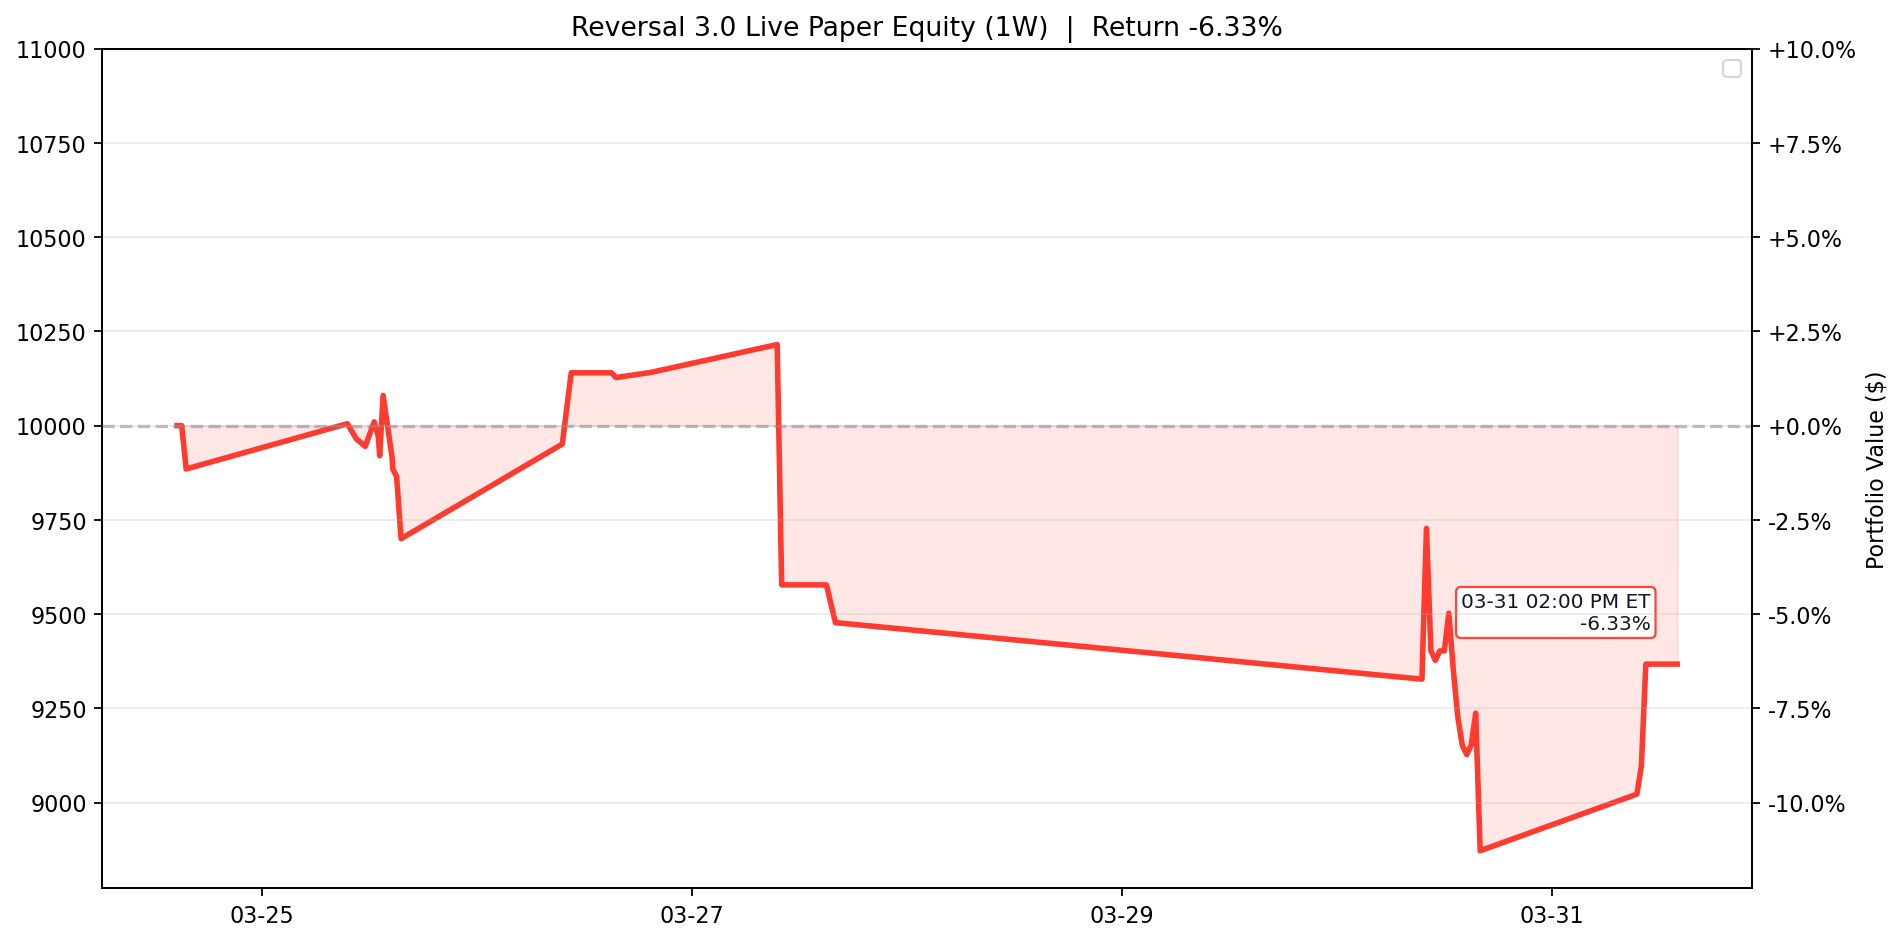
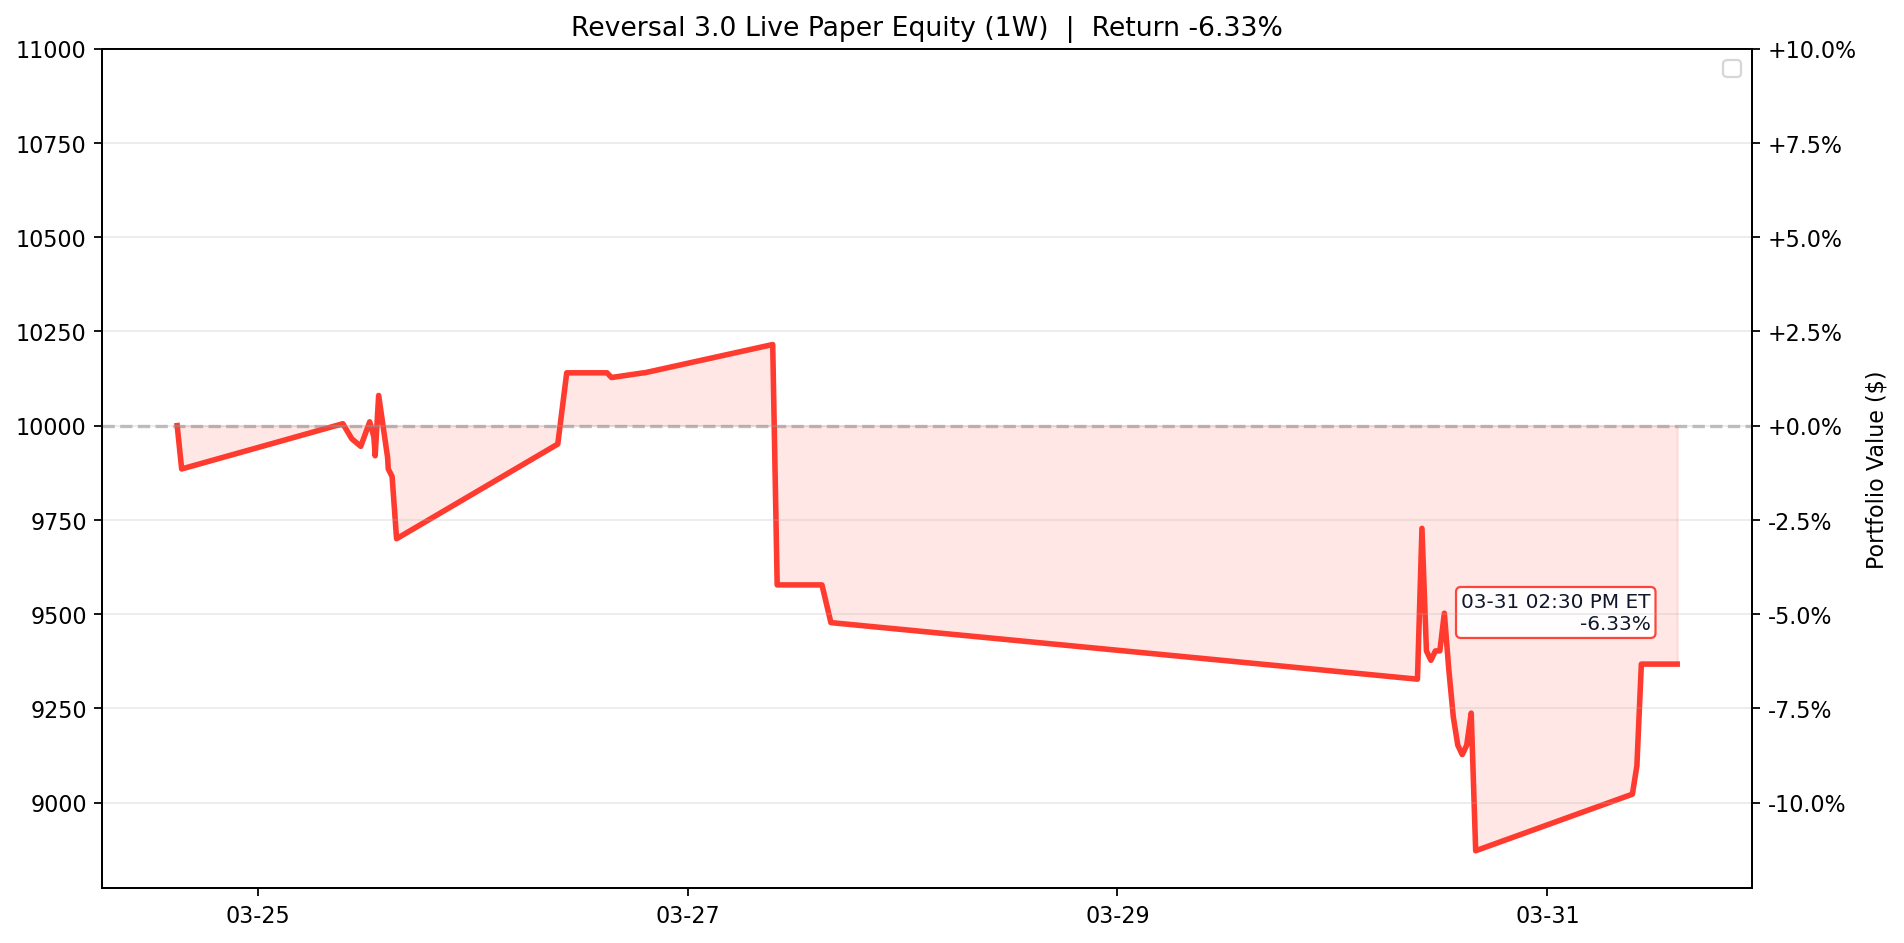
Update Reversal 3.0 live paper test 2026-03-31 14:30 ET

diff --git a/results/reversal_3_0_live/README.md b/results/reversal_3_0_live/README.md
@@ -1,7 +1,7 @@
 # Reversal 3.0 Live Paper Test
 
-Last updated (ET): `2026-03-31 14:00:05 EDT`
-Last processed slot: `manage_1400`
+Last updated (ET): `2026-03-31 14:30:05 EDT`
+Last processed slot: `manage_1430`
 
 ## Active Configuration
 
@@ -40,18 +40,18 @@ ticker     contract_symbol entry_trade_date_et exit_trade_date_et  entry_option_
 
 ```text
 ticker  success_rate_%  matched_signals  current_drop_%  target_rebound_$  target_price  rolling_sigma_20d_%  call_candidate
-  FANG          100.00               22            1.32              1.83        197.86                24.45            True
-   AEP           90.91               22            0.57              0.53        130.89                18.09            True
- CMCSA           87.50               32            0.54              0.11         28.85                29.21            True
-   LIN           87.50               16            0.87              3.04        497.96                19.51            True
-  MDLZ           86.96               23            1.06              0.43         57.57                24.85            True
-  CHTR           85.71               35            0.97              1.50        220.30                36.22            True
-   EXC           83.33               12            1.15              0.40         48.94                21.45            True
-   PEP           83.33               12            1.00              1.10        156.35                18.39            True
-   KDP           81.82               11            1.25              0.23         26.35                21.21            True
-   XEL           92.00               25            0.40              0.22         79.07                18.55           False
-  COST           91.49               47            0.21              1.44        995.96                15.57           False
-  CTAS           89.47               38            0.32              0.38        168.50                28.24           False
+  FANG          100.00               22            1.12              1.56        197.98                24.45            True
+   XEL           95.24               21            0.57              0.32         79.03                18.55            True
+   AEP           93.33               15            0.78              0.72        130.81                18.09            True
+  MDLZ           88.46               26            0.99              0.40         57.58                24.85            True
+  COST           88.24               34            0.53              3.72        994.98                15.57            True
+ CMCSA           87.10               31            0.64              0.13         28.84                29.21            True
+   LIN           84.62               13            1.05              3.67        497.69                19.51            True
+  CHTR           84.38               32            1.23              1.90        220.13                36.22            True
+   PEP           83.33               12            1.09              1.20        156.31                18.39            True
+   KDP           80.00               10            1.32              0.24         26.35                21.21            True
+  CTAS           90.48               42            0.12              0.14        168.60                28.24           False
+  CSCO           88.89               45            0.04              0.02         77.03                29.47           False
 ```
 
 ## Recent Events

diff --git a/README.md b/README.md
@@ -3,10 +3,10 @@
 <!-- reversal-3.0-live:start -->
 ## Reversal 3.0 Live Paper Test
 
-- Last updated (ET): `2026-03-31 14:00:05 EDT`
+- Last updated (ET): `2026-03-31 14:30:05 EDT`
 - Equity: `$9,367.50` | Realized: `$-632.50` | Unrealized: `$0.00` | Open positions: `0`
 - Today closed trades: `1`
-- Current slot: `manage_1400`
+- Current slot: `manage_1430`
 - Chart: trailing `1W` with ET timestamps
 
 _None_
